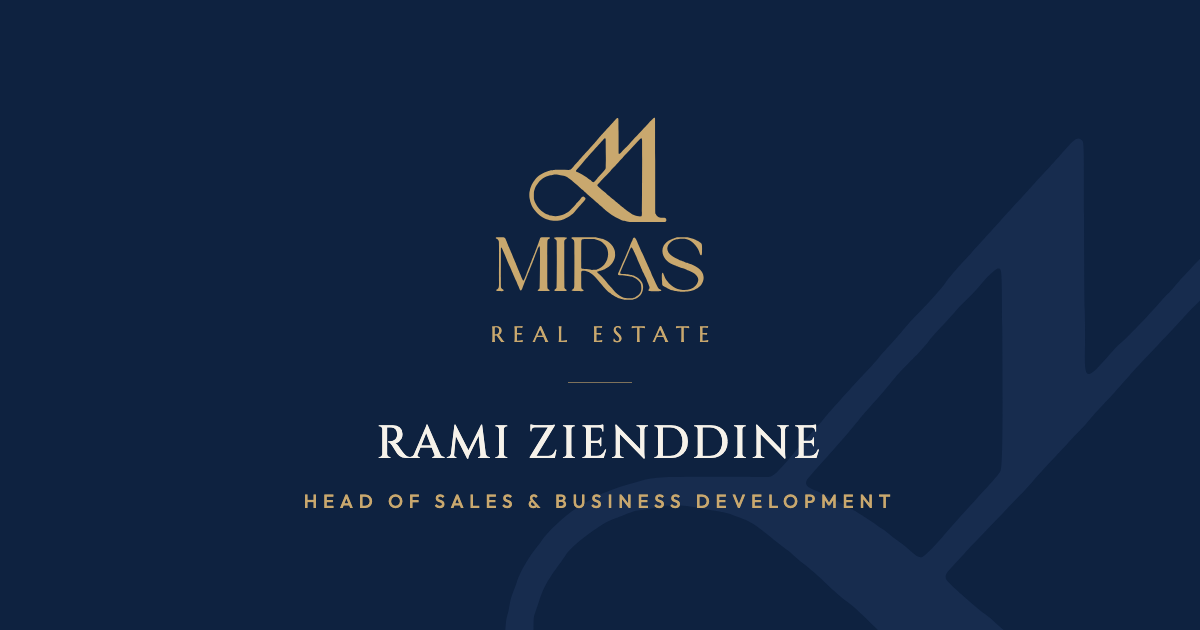
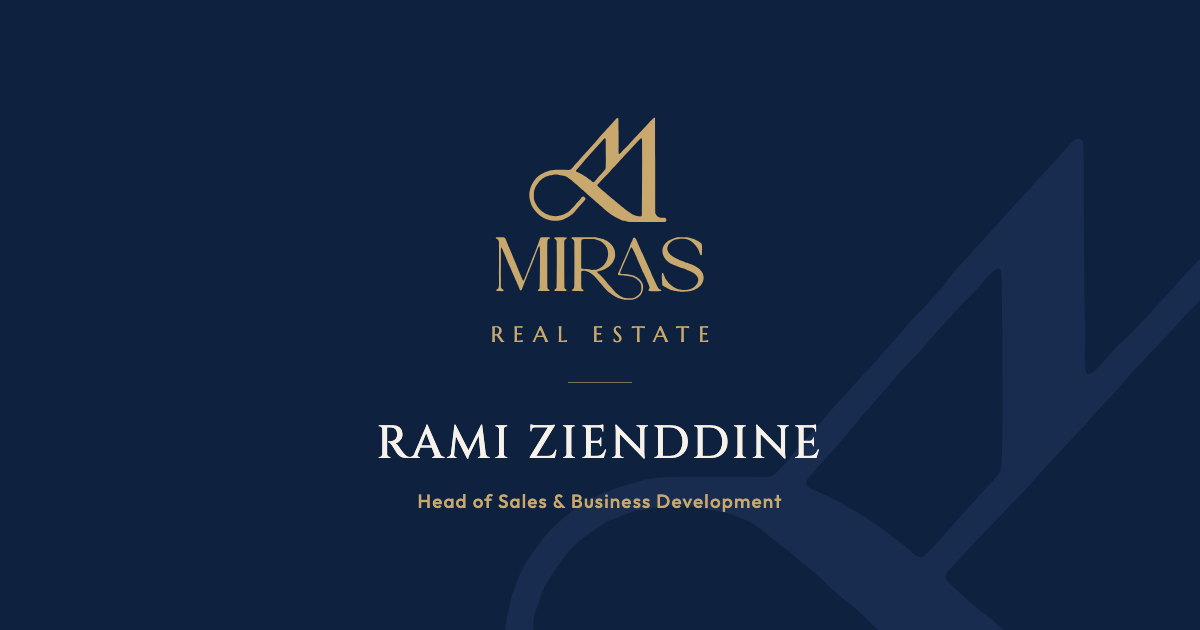
Move MIRAS cards to mirasrealestate.github.io; GROUP tagline, aligned header

Changed region(s): [[0.2467, 0.7841, 0.74, 0.8143]]

diff --git a/saeed/index.html b/saeed/index.html
@@ -9,10 +9,10 @@
 <meta property="og:type" content="profile">
 <meta property="og:title" content="Saeed Taheri · CEO, MIRAS Group">
 <meta property="og:description" content="Call, WhatsApp, email or save the contact.">
-<meta property="og:image" content="https://sawafilms20-debug.github.io/miras/saeed/og-image.png">
+<meta property="og:image" content="https://mirasrealestate.github.io/saeed/og-image.png">
 <meta property="og:image:width" content="1200">
 <meta property="og:image:height" content="630">
-<meta property="og:url" content="https://sawafilms20-debug.github.io/miras/saeed/">
+<meta property="og:url" content="https://mirasrealestate.github.io/saeed/">
 <meta name="twitter:card" content="summary_large_image">
 <link rel="icon" type="image/svg+xml" href="../assets/favicon.svg">
 <link rel="apple-touch-icon" href="../assets/apple-touch-icon.png">
@@ -59,7 +59,7 @@ button{font:inherit;color:inherit;background:none;border:0;cursor:pointer}
 .identity{display:flex;flex-direction:column;align-items:center;text-align:center}
 .name{font-family:'Cinzel',serif;font-weight:500;font-size:clamp(21px,6.4vw,26px);letter-spacing:.07em;line-height:1.15;color:var(--navy)}
 .name-ar{margin-top:8px;font-family:var(--ar);font-weight:600;font-size:clamp(18px,5.4vw,21px);line-height:1.3;color:var(--navy)}
-.role{margin-top:16px;font-family:var(--sans);font-size:11px;font-weight:500;line-height:1.75;color:var(--gold-text);text-transform:uppercase;text-wrap:balance;max-width:300px}
+.role{margin-top:16px;font-family:var(--sans);font-size:11px;font-weight:500;line-height:1.75;color:var(--gold-text);text-wrap:balance;max-width:340px}
 .role-ar{margin-top:5px;font-family:var(--ar);font-size:13px;font-weight:500;line-height:1.5;color:var(--gold-text)}
 
 .rule{position:relative;height:1px;margin:24px 4px 22px;background:linear-gradient(90deg,transparent,rgba(168,132,74,.5) 16%,rgba(168,132,74,.5) 84%,transparent)}
@@ -143,7 +143,7 @@ html[lang=ar] .foot .place{font-size:12px;letter-spacing:0}
         </defs>
         <path fill="url(#sheen)" fill-rule="evenodd" d="M1690.0 2393.9C1683.6 2393.4 1676.5 2391.6 1661.5 2386.7C1650.5 2383.2 1639.0 2379.7 1636.0 2379.0C1610.7 2373.2 1550.6 2341.5 1523.0 2319.5C1518.3 2315.8 1508.7 2308.8 1501.5 2304.0C1484.5 2292.4 1458.2 2266.2 1430.4 2233.0C1425.6 2227.2 1416.7 2217.1 1410.6 2210.5C1395.9 2194.6 1387.7 2185.3 1373.9 2168.9C1348.5 2138.7 1325.8 2112.8 1312.1 2098.5C1304.0 2090.1 1293.5 2079.0 1288.5 2073.8C1273.8 2058.4 1236.0 2034.0 1218.0 2028.4C1213.3 2027.0 1204.7 2024.3 1198.9 2022.4C1174.5 2014.7 1143.4 2014.6 1135.3 2022.2C1129.5 2027.7 1129.6 2025.5 1129.8 2131.5C1130.0 2251.8 1129.1 2245.9 1149.4 2259.5C1164.3 2269.4 1165.7 2274.9 1154.4 2279.6C1146.1 2283.1 1110.5 2283.8 1094.0 2280.9C1091.0 2280.3 1071.6 2279.6 1051.0 2279.1C1020.6 2278.5 1012.8 2278.1 1010.0 2276.9C1000.9 2272.8 1002.1 2268.8 1014.5 2261.3C1025.8 2254.5 1028.4 2252.0 1032.0 2244.5C1037.9 2232.4 1038.2 2230.3 1039.2 2182.0C1040.9 2100.0 1040.8 1685.7 1039.1 1649.5C1037.6 1617.9 1034.2 1611.1 1014.4 1599.4C992.2 1586.4 996.8 1577.7 1026.7 1575.9C1048.5 1574.6 1315.1 1575.6 1322.5 1577.0C1325.8 1577.6 1334.6 1579.6 1342.0 1581.5C1349.4 1583.4 1362.5 1586.1 1371.0 1587.5C1393.1 1591.3 1400.8 1593.4 1413.9 1599.4C1420.3 1602.3 1430.0 1606.1 1435.5 1607.8C1451.0 1612.7 1488.2 1635.9 1504.6 1651.1C1537.5 1681.5 1557.7 1712.1 1568.6 1748.0C1574.1 1765.8 1576.3 1813.2 1572.6 1833.1C1567.4 1861.3 1552.1 1895.5 1535.6 1915.5C1527.2 1925.7 1504.0 1951.7 1498.4 1957.2C1487.1 1968.0 1452.1 1989.7 1438.4 1994.4C1433.0 1996.2 1424.0 2000.0 1418.5 2002.7C1405.5 2009.3 1402.5 2010.2 1358.5 2020.5C1332.3 2026.6 1331.7 2031.1 1354.9 2050.3C1371.4 2064.0 1413.1 2105.1 1424.1 2118.5C1428.2 2123.4 1433.9 2130.2 1436.9 2133.5C1439.8 2136.8 1447.5 2146.0 1453.8 2154.0C1482.7 2190.2 1501.5 2212.5 1513.5 2225.0C1535.3 2247.6 1541.2 2254.1 1549.2 2264.5C1577.9 2302.2 1627.8 2342.8 1664.6 2358.5C1696.8 2372.3 1715.8 2375.5 1764.0 2375.5C1813.3 2375.4 1811.8 2375.7 1842.0 2359.1C1905.3 2324.3 1924.1 2287.5 1915.5 2215.4C1912.2 2188.2 1911.5 2185.9 1898.3 2166.0C1881.6 2140.7 1857.3 2121.6 1818.5 2103.2C1799.3 2094.0 1798.6 2093.8 1775.4 2091.0C1766.1 2089.9 1749.8 2086.9 1739.0 2084.5C1705.4 2076.9 1679.2 2074.0 1643.8 2074.0C1608.9 2074.0 1605.0 2068.7 1618.1 2039.0C1620.9 2032.7 1625.8 2021.4 1629.0 2013.9C1632.2 2006.5 1636.6 1996.8 1638.8 1992.4C1640.9 1988.1 1645.5 1977.5 1649.0 1969.0C1652.4 1960.5 1656.7 1950.5 1658.6 1946.8C1663.1 1937.9 1679.0 1901.4 1682.5 1892.0C1684.0 1887.9 1688.2 1878.4 1691.7 1871.0C1695.2 1863.6 1701.3 1849.6 1705.1 1840.0C1709.0 1830.4 1715.3 1815.8 1719.2 1807.5C1734.9 1773.9 1754.6 1728.8 1758.6 1717.0C1768.4 1688.2 1775.0 1670.1 1777.5 1664.5C1778.9 1661.2 1782.1 1653.7 1784.5 1647.8C1786.9 1641.9 1791.2 1633.1 1793.9 1628.3C1796.7 1623.4 1800.2 1615.4 1801.8 1610.5C1815.9 1567.0 1833.5 1568.8 1854.5 1615.8C1857.4 1622.3 1861.3 1630.7 1863.2 1634.5C1865.1 1638.3 1867.5 1644.0 1868.5 1647.0C1869.4 1650.0 1873.9 1660.4 1878.5 1670.0C1893.1 1700.6 1902.5 1722.1 1914.4 1751.6C1917.4 1758.8 1922.5 1770.1 1925.9 1776.6C1935.6 1795.6 1946.8 1819.5 1952.0 1832.5C1959.9 1852.3 1971.1 1877.1 1983.5 1902.5C1989.9 1915.7 1996.7 1930.4 1998.5 1935.1C2000.3 1939.8 2003.6 1947.2 2005.8 1951.6C2008.0 1955.9 2011.7 1964.0 2014.0 1969.5C2016.3 1975.0 2020.0 1983.0 2022.1 1987.2C2024.2 1991.5 2027.8 1999.5 2030.0 2005.0C2032.2 2010.6 2036.3 2020.1 2039.1 2026.2C2041.8 2032.2 2045.3 2040.4 2046.7 2044.3C2052.0 2059.3 2068.6 2097.1 2080.1 2120.8C2086.7 2134.4 2093.1 2147.8 2094.1 2150.5C2096.2 2155.7 2102.1 2168.4 2119.7 2205.4C2137.3 2242.7 2144.2 2250.6 2167.4 2260.6C2182.4 2267.0 2184.3 2276.2 2171.4 2279.9C2158.5 2283.6 2031.9 2283.3 2020.3 2279.6C2008.3 2275.8 2007.1 2268.3 2016.6 2256.9C2027.2 2244.3 2027.7 2233.6 2018.7 2212.0C2016.6 2206.8 2012.7 2196.4 2010.1 2189.0C2007.4 2181.6 2004.3 2173.6 2003.1 2171.2C2001.9 2168.9 1996.9 2157.2 1992.1 2145.2C1978.9 2113.0 1976.6 2108.0 1970.8 2097.8C1967.8 2092.7 1963.3 2083.8 1960.8 2078.0C1958.3 2072.2 1950.8 2056.4 1944.2 2042.7C1937.6 2029.1 1931.0 2014.5 1929.5 2010.2C1928.0 2006.0 1924.6 1998.2 1922.0 1993.0C1919.4 1987.8 1915.8 1979.5 1914.0 1974.5C1912.2 1969.5 1908.5 1961.1 1905.9 1955.8C1903.2 1950.4 1899.2 1941.5 1897.0 1936.0C1894.8 1930.4 1891.6 1923.2 1890.0 1919.9C1888.3 1916.6 1885.0 1908.9 1882.6 1902.7C1880.2 1896.5 1876.2 1887.4 1873.8 1882.5C1871.3 1877.5 1867.6 1869.0 1865.5 1863.5C1860.8 1850.6 1851.0 1828.0 1845.2 1816.5C1842.7 1811.5 1838.5 1802.0 1835.9 1795.2C1833.2 1788.5 1828.6 1778.1 1825.6 1772.2C1822.7 1766.3 1818.7 1757.7 1816.7 1753.0C1805.9 1727.0 1795.1 1709.0 1790.4 1709.0C1784.4 1709.0 1777.7 1715.7 1774.0 1725.6C1772.9 1728.6 1769.5 1736.5 1766.4 1743.3C1763.3 1750.0 1756.5 1766.3 1751.3 1779.5C1746.1 1792.7 1740.2 1807.5 1738.3 1812.5C1736.3 1817.5 1730.1 1831.2 1724.4 1843.1C1718.7 1855.0 1712.0 1870.1 1709.4 1876.6C1706.8 1883.1 1701.6 1895.2 1697.7 1903.5C1693.9 1911.8 1687.4 1926.8 1683.3 1937.0C1679.2 1947.2 1672.6 1962.5 1668.5 1971.0C1661.8 1985.1 1657.7 1994.6 1645.8 2024.5C1634.5 2052.6 1637.4 2055.1 1682.5 2056.1C1716.8 2056.8 1729.0 2058.2 1754.0 2064.5C1761.4 2066.3 1773.6 2068.6 1781.0 2069.5C1797.8 2071.6 1803.7 2073.0 1815.1 2078.1C1820.1 2080.3 1828.3 2083.6 1833.3 2085.6C1870.8 2100.0 1898.6 2123.2 1920.9 2159.0C1933.6 2179.2 1934.9 2182.9 1939.1 2207.5C1944.2 2237.7 1938.1 2280.7 1925.7 2302.8C1922.7 2308.1 1918.8 2315.2 1917.0 2318.5C1903.2 2343.8 1869.1 2372.4 1841.5 2381.9C1833.8 2384.6 1823.7 2388.1 1819.0 2389.8C1813.7 2391.7 1806.7 2393.3 1800.5 2394.0C1789.6 2395.2 1704.7 2395.1 1690.0 2393.9ZM2429.5 2289.0C2426.2 2288.6 2417.0 2287.9 2409.0 2287.6C2368.8 2285.8 2363.4 2284.8 2324.5 2271.8C2294.3 2261.7 2274.9 2253.2 2258.6 2243.0C2250.9 2238.3 2223.3 2222.8 2212.0 2217.0C2192.3 2206.8 2190.0 2202.0 2190.0 2171.4C2190.0 2154.9 2189.6 2147.1 2188.3 2140.0C2185.6 2125.4 2185.7 2057.7 2188.3 2050.7C2193.5 2037.4 2202.4 2041.2 2209.5 2059.5C2225.8 2101.9 2233.0 2117.7 2241.6 2129.5C2244.8 2133.9 2250.4 2141.9 2254.1 2147.2C2284.0 2190.3 2333.0 2231.7 2369.8 2245.3C2410.3 2260.3 2414.2 2261.3 2440.0 2264.5C2520.5 2274.3 2581.9 2256.8 2628.5 2210.6C2644.1 2195.2 2643.2 2196.6 2656.4 2167.3C2682.9 2108.4 2638.0 2051.0 2535.1 2012.0C2528.1 2009.4 2519.2 2005.6 2515.2 2003.6C2504.9 1998.4 2496.3 1995.1 2462.5 1983.5C2446.0 1977.8 2422.8 1969.8 2410.9 1965.7C2399.1 1961.6 2386.0 1956.8 2381.9 1955.0C2377.8 1953.2 2368.4 1949.6 2361.0 1947.0C2226.1 1900.2 2160.4 1787.3 2210.3 1688.4C2226.0 1657.3 2264.4 1623.1 2299.4 1609.0C2304.4 1607.0 2313.4 1602.8 2319.5 1599.7C2327.4 1595.6 2333.9 1593.2 2342.5 1591.1C2349.1 1589.4 2359.3 1586.3 2365.2 1584.0C2386.4 1576.0 2380.8 1576.5 2454.5 1576.5C2528.6 1576.5 2521.5 1575.8 2557.5 1586.0C2565.2 1588.2 2576.0 1591.1 2581.5 1592.4C2616.6 1600.7 2675.6 1630.7 2699.7 1652.4C2713.0 1664.4 2715.1 1682.4 2713.0 1765.5C2712.0 1802.0 2710.9 1807.9 2703.9 1811.6C2695.2 1816.0 2688.4 1807.6 2682.1 1784.5C2678.3 1770.3 2665.6 1740.3 2659.2 1730.3C2656.4 1726.0 2651.3 1717.7 2647.7 1711.8C2623.3 1671.6 2576.3 1627.7 2542.3 1613.2C2534.0 1609.6 2496.2 1598.3 2488.5 1597.1C2452.2 1591.3 2403.5 1593.9 2379.4 1603.0C2373.5 1605.2 2363.7 1608.4 2357.7 1610.0C2333.6 1616.7 2312.9 1630.1 2289.0 1654.7C2271.4 1672.6 2264.1 1687.3 2259.5 1713.7C2251.2 1761.3 2287.3 1808.0 2363.9 1848.7C2394.8 1865.1 2420.1 1877.0 2435.0 1882.2C2450.6 1887.6 2463.5 1892.2 2491.0 1902.4C2500.7 1905.9 2512.7 1910.0 2517.8 1911.4C2522.8 1912.9 2532.2 1916.0 2538.7 1918.4C2545.2 1920.8 2554.9 1924.1 2560.2 1925.8C2565.5 1927.5 2574.9 1931.5 2581.2 1934.6C2587.4 1937.7 2596.0 1941.7 2600.3 1943.5C2639.8 1960.2 2690.0 1997.5 2708.1 2023.7C2744.6 2076.5 2742.7 2144.8 2703.4 2197.3C2671.7 2239.6 2599.7 2277.7 2542.4 2282.5C2533.0 2283.3 2518.6 2285.1 2510.4 2286.6C2494.5 2289.5 2443.8 2291.0 2429.5 2289.0ZM71.9 2281.6C71.6 2281.3 60.1 2280.6 46.4 2280.1C19.3 2279.2 15.0 2278.3 12.8 2273.5C11.0 2269.5 13.2 2266.9 23.0 2261.1C50.5 2245.1 53.7 2233.3 52.1 2152.0C51.6 2124.4 51.7 2028.5 52.3 1916.0C53.4 1709.6 52.7 1640.8 49.6 1629.5C45.0 1613.2 37.2 1603.7 22.3 1596.3C6.3 1588.4 5.5 1580.1 20.5 1577.0C27.7 1575.5 99.5 1574.8 109.5 1576.1C126.8 1578.4 134.6 1586.0 141.5 1607.0C143.0 1611.7 146.5 1620.5 149.3 1626.5C152.0 1632.5 156.0 1642.3 158.1 1648.3C160.2 1654.2 164.0 1663.4 166.4 1668.8C168.9 1674.1 172.2 1682.2 173.9 1686.6C175.5 1691.1 179.1 1699.2 181.8 1704.6C184.5 1710.1 188.2 1718.5 190.0 1723.5C191.8 1728.5 195.3 1736.5 197.7 1741.4C200.1 1746.3 203.5 1754.1 205.1 1758.9C206.8 1763.6 210.6 1772.7 213.7 1779.0C216.7 1785.3 220.7 1794.9 222.6 1800.3C224.5 1805.7 227.9 1814.0 230.1 1818.8C232.4 1823.6 236.3 1833.3 238.9 1840.5C241.6 1847.7 245.4 1856.9 247.5 1861.0C249.5 1865.1 252.7 1872.3 254.6 1877.0C256.4 1881.7 260.1 1890.2 262.8 1896.0C265.5 1901.8 269.0 1910.3 270.5 1915.0C272.0 1919.7 275.7 1928.9 278.6 1935.5C283.9 1947.7 292.0 1967.4 301.5 1992.0C304.4 1999.4 308.9 2010.0 311.5 2015.5C314.1 2021.0 318.2 2030.5 320.5 2036.5C322.9 2042.5 326.3 2050.7 328.0 2054.5C329.8 2058.3 332.9 2066.0 335.0 2071.5C337.0 2077.0 341.0 2086.7 343.7 2093.0C346.5 2099.3 351.8 2112.1 355.6 2121.4C370.2 2157.2 375.6 2153.7 396.6 2095.0C398.1 2090.9 401.6 2082.4 404.5 2076.0C407.4 2069.7 411.2 2059.8 413.0 2054.0C414.8 2048.2 418.4 2038.7 421.0 2032.9C423.7 2027.1 427.1 2018.2 428.5 2013.2C430.0 2008.1 433.3 1999.4 435.9 1993.7C438.6 1988.1 442.1 1979.2 443.8 1974.0C445.4 1968.8 448.9 1960.1 451.4 1954.7C453.9 1949.3 457.2 1941.0 458.6 1936.2C460.1 1931.4 463.9 1921.9 467.1 1915.0C470.4 1908.1 474.6 1896.9 476.5 1890.2C478.4 1883.5 481.5 1874.9 483.4 1871.1C485.4 1867.3 488.7 1859.1 490.9 1852.8C493.0 1846.5 496.6 1837.7 498.9 1833.2C501.1 1828.7 505.0 1819.3 507.4 1812.3C509.8 1805.3 514.2 1794.3 517.2 1788.0C520.2 1781.7 524.4 1771.3 526.5 1765.0C528.5 1758.7 532.2 1748.9 534.6 1743.3C537.0 1737.7 540.5 1729.0 542.4 1723.8C544.2 1718.7 547.6 1710.2 549.8 1705.0C552.0 1699.8 554.8 1691.7 556.0 1687.0C557.2 1682.4 560.5 1673.4 563.5 1667.0C566.4 1660.7 570.0 1651.2 571.5 1646.0C572.9 1640.8 576.1 1631.5 578.4 1625.5C580.8 1619.5 583.9 1609.9 585.5 1604.3C590.6 1585.4 596.8 1579.2 612.5 1577.1C623.7 1575.6 705.7 1575.3 710.6 1576.8C724.2 1580.8 723.5 1589.4 709.0 1597.1C689.7 1607.4 686.9 1613.4 685.8 1646.5C684.8 1678.9 684.7 2093.7 685.7 2175.0C686.7 2250.8 685.9 2247.5 705.6 2260.5C720.5 2270.3 719.2 2277.7 702.1 2281.0C692.6 2282.8 586.3 2281.1 572.6 2279.0C557.1 2276.6 554.2 2269.6 565.7 2262.4C576.3 2255.8 582.2 2248.8 585.3 2239.5C588.7 2229.2 591.1 1730.7 587.9 1712.3C584.2 1691.5 579.9 1689.9 570.9 1706.0C561.4 1723.1 559.1 1727.7 557.6 1732.5C552.9 1748.2 551.4 1752.4 547.1 1761.9C544.4 1767.7 541.0 1776.3 539.5 1781.0C537.9 1785.6 534.7 1793.8 532.4 1799.2C530.0 1804.5 526.9 1813.1 525.5 1818.2C522.3 1829.7 520.3 1835.1 515.2 1846.1C513.0 1850.8 509.6 1859.8 507.5 1866.1C505.5 1872.4 501.6 1882.2 499.0 1888.0C496.4 1893.8 493.2 1901.9 492.0 1906.0C490.7 1910.1 487.2 1919.1 484.0 1926.0C480.8 1932.9 477.3 1941.9 476.1 1946.0C474.8 1950.1 471.8 1958.0 469.3 1963.4C466.9 1968.8 463.3 1977.6 461.5 1982.9C459.6 1988.2 455.7 1998.2 452.7 2005.0C449.7 2011.9 445.7 2021.8 443.7 2027.0C441.8 2032.2 438.1 2040.7 435.6 2045.9C433.1 2051.1 429.4 2060.6 427.4 2066.9C425.4 2073.3 422.4 2081.2 420.8 2084.5C419.1 2087.7 415.8 2096.5 413.4 2103.9C410.8 2111.8 407.0 2120.9 404.2 2125.9C399.2 2134.6 389.6 2158.6 379.4 2187.5C373.0 2205.9 355.3 2251.1 350.6 2261.5C342.2 2279.8 331.7 2277.7 322.3 2255.9C320.0 2250.7 313.2 2234.1 307.0 2219.0C300.8 2203.9 293.5 2186.6 290.8 2180.5C288.0 2174.4 284.0 2165.3 281.8 2160.1C279.6 2154.9 276.3 2147.5 274.3 2143.7C272.4 2139.8 268.2 2130.6 265.0 2123.1C258.1 2106.8 245.3 2078.5 241.7 2071.4C240.3 2068.6 237.3 2060.9 235.0 2054.4C232.8 2047.9 228.9 2038.7 226.4 2034.0C223.8 2029.3 219.8 2020.5 217.5 2014.5C215.1 2008.5 210.9 1998.8 208.2 1993.0C205.5 1987.2 202.5 1980.0 201.5 1977.0C200.5 1974.0 197.2 1966.5 194.2 1960.5C184.0 1940.1 168.0 1902.3 155.5 1869.5C152.6 1861.8 147.8 1850.3 144.7 1844.0C141.7 1837.7 134.4 1820.8 128.5 1806.6C122.6 1792.3 116.0 1776.8 113.8 1772.1C111.6 1767.4 107.8 1758.3 105.3 1752.0C96.5 1729.3 85.3 1710.2 81.7 1711.6C77.7 1713.1 77.5 1716.4 77.4 1773.5C76.3 2267.6 76.0 2229.2 81.6 2240.7C84.9 2247.6 93.6 2255.3 104.8 2261.3C119.0 2269.0 119.2 2274.1 105.4 2278.9C98.6 2281.2 73.5 2283.3 71.9 2281.6ZM796.5 2281.3C795.4 2281.1 792.1 2280.4 789.2 2279.9C774.3 2277.0 774.1 2268.1 788.6 2258.2C797.3 2252.4 803.9 2245.4 806.9 2239.0C810.5 2231.5 811.1 1631.2 807.6 1621.0C805.2 1614.2 799.0 1607.8 786.3 1599.2C772.1 1589.4 770.7 1583.4 781.5 1578.0C790.6 1573.4 927.3 1574.2 937.0 1578.8C944.9 1582.6 944.4 1589.1 935.7 1594.5C906.1 1612.8 907.7 1607.4 907.7 1693.0C907.8 1972.2 909.6 2236.6 911.4 2241.2C914.1 2248.3 920.1 2254.4 930.5 2260.5C939.9 2266.0 941.0 2267.2 941.0 2271.5C941.0 2279.9 932.4 2281.0 879.5 2279.6C855.1 2278.9 848.7 2279.0 839.0 2280.4C828.6 2281.9 801.7 2282.5 796.5 2281.3ZM1313.0 2003.0C1323.4 2001.8 1330.1 1999.6 1359.5 1987.4C1382.1 1978.1 1414.8 1954.3 1430.2 1936.1C1484.4 1871.8 1497.4 1783.0 1463.3 1710.0C1442.4 1665.2 1388.7 1620.8 1342.9 1610.4C1337.1 1609.1 1327.4 1606.5 1321.4 1604.6C1302.2 1598.6 1300.2 1598.5 1250.0 1598.8C1149.1 1599.5 1140.4 1600.6 1133.5 1614.5C1130.5 1620.5 1130.5 1620.5 1130.0 1785.2C1129.4 1969.7 1129.5 1977.6 1132.6 1983.5C1136.7 1991.3 1137.1 1991.4 1175.0 1992.1C1206.8 1992.7 1245.0 1997.7 1269.0 2004.5C1271.5 2005.2 1303.9 2004.1 1313.0 2003.0ZM1781.9 1376.9C1764.1 1375.2 1726.6 1369.1 1718.0 1366.5C1713.3 1365.1 1702.8 1362.4 1694.5 1360.4C1669.8 1354.6 1668.3 1354.2 1647.0 1345.3C1607.2 1328.8 1595.3 1322.7 1553.5 1297.2C1525.2 1279.9 1490.0 1254.8 1469.0 1237.0C1466.0 1234.4 1457.0 1227.2 1449.0 1221.0C1441.0 1214.8 1424.6 1200.9 1412.5 1190.1C1400.4 1179.3 1387.1 1167.6 1383.0 1164.0C1378.9 1160.4 1368.7 1151.1 1360.3 1143.3C1352.0 1135.5 1340.3 1125.2 1334.3 1120.5C1328.4 1115.7 1316.5 1105.4 1308.0 1097.5C1299.5 1089.7 1286.9 1078.6 1280.0 1072.9C1273.1 1067.3 1260.3 1055.6 1251.5 1047.0C1241.2 1036.9 1230.5 1027.6 1221.5 1021.0C1211.4 1013.6 1201.6 1004.9 1186.5 990.0C1159.8 963.9 1154.8 959.3 1141.4 949.0C1126.9 937.9 1119.2 931.1 1096.5 909.9C1086.0 900.2 1071.4 887.1 1064.0 881.0C1056.6 874.9 1045.4 865.5 1039.2 860.2C1033.0 854.9 1024.2 847.7 1019.7 844.2C1015.2 840.7 1001.4 829.8 989.0 819.9C951.1 789.7 944.1 785.3 921.0 777.0C914.7 774.7 906.4 771.7 902.7 770.4C896.5 768.1 872.7 763.7 827.6 756.4C798.0 751.7 783.8 752.1 752.0 758.5C742.9 760.3 732.4 762.1 728.5 762.5C716.8 763.6 708.1 766.0 694.0 771.7C686.6 774.8 676.7 778.6 672.0 780.1C652.8 786.7 606.0 819.0 585.8 839.7C582.2 843.4 574.1 853.7 567.8 862.5C532.6 911.8 530.8 915.2 517.0 957.5C510.8 976.5 510.8 976.5 509.9 997.5C508.9 1021.3 509.7 1067.6 511.2 1076.4C512.3 1083.4 524.8 1118.7 529.4 1128.0C558.3 1186.8 588.2 1220.5 642.5 1255.5C657.1 1264.9 660.2 1266.6 669.6 1270.0C674.5 1271.8 683.8 1275.7 690.3 1278.7C696.9 1281.7 706.1 1285.0 710.8 1286.2C715.6 1287.3 726.0 1290.0 734.0 1292.1C768.5 1301.6 810.0 1302.7 839.5 1294.9C845.5 1293.3 857.9 1290.2 866.9 1287.9C930.1 1272.2 983.4 1231.4 1062.0 1138.7C1067.2 1132.5 1079.9 1118.9 1090.2 1108.3C1102.3 1095.9 1112.5 1084.3 1119.1 1075.5C1145.8 1039.8 1155.9 1035.6 1174.3 1052.9C1191.5 1069.1 1191.0 1075.4 1171.1 1096.9C1164.5 1104.1 1155.1 1115.2 1150.3 1121.7C1145.5 1128.2 1134.3 1140.9 1125.4 1150.0C1103.5 1172.5 1062.7 1218.5 1042.2 1243.6C1035.3 1252.2 1021.8 1265.2 1006.0 1278.7C976.2 1304.2 933.1 1329.7 903.5 1339.5C896.4 1341.8 886.6 1345.4 881.8 1347.4C841.9 1364.0 745.0 1364.0 699.2 1347.4C693.8 1345.5 683.4 1342.1 676.0 1339.9C655.1 1333.6 625.2 1317.4 591.5 1293.8C544.3 1260.9 488.7 1191.0 475.3 1148.0C473.9 1143.3 470.7 1134.5 468.4 1128.5C462.9 1114.3 459.5 1101.1 458.0 1088.5C457.4 1083.0 455.8 1074.7 454.5 1070.0C448.7 1049.4 448.0 995.9 453.4 977.0C454.9 971.8 457.0 962.3 458.1 956.0C460.0 945.0 462.3 937.7 474.3 904.2C482.0 882.7 497.2 856.5 514.2 835.2C517.7 830.8 523.8 822.7 527.9 817.1C561.1 771.6 628.5 729.0 700.0 708.3C741.1 696.4 738.7 696.9 777.0 693.9C790.5 692.8 871.6 692.6 968.5 693.4C991.2 693.6 996.5 689.5 1034.3 643.2C1040.0 636.2 1048.7 626.1 1053.6 620.6C1079.0 592.5 1086.1 584.4 1095.5 573.0C1110.6 554.5 1139.4 522.7 1174.8 485.3C1183.8 475.8 1195.3 463.0 1200.3 456.8C1205.3 450.6 1215.6 439.0 1223.3 431.0C1231.0 423.0 1243.4 408.9 1250.8 399.5C1259.6 388.4 1272.2 374.5 1287.0 359.5C1310.7 335.5 1322.5 322.1 1335.2 305.4C1344.9 292.6 1358.6 276.3 1370.9 263.0C1376.3 257.2 1384.4 248.2 1389.0 243.0C1393.5 237.8 1405.4 224.7 1415.4 214.0C1440.8 186.7 1442.3 185.0 1454.5 171.0C1460.5 164.1 1473.8 149.5 1484.0 138.5C1494.2 127.5 1507.9 112.4 1514.5 105.0C1521.1 97.6 1533.5 84.1 1542.1 75.0C1550.7 65.9 1561.3 54.4 1565.6 49.4C1570.0 44.4 1577.6 35.6 1582.6 29.8C1596.9 13.5 1604.8 9.6 1611.8 15.5C1619.0 21.5 1618.4 8.1 1619.3 188.5C1620.6 478.5 1620.6 476.5 1623.3 480.1C1629.4 488.1 1637.9 482.0 1666.7 449.0C1671.7 443.2 1688.5 426.2 1704.0 411.1C1719.4 396.1 1736.2 379.2 1741.2 373.6C1746.2 368.1 1755.8 357.4 1762.4 350.0C1769.1 342.6 1779.2 331.6 1785.0 325.5C1790.8 319.5 1798.0 311.6 1801.0 308.0C1811.8 295.2 1822.8 283.2 1842.5 263.0C1860.2 244.8 1903.3 198.6 1933.0 166.0C1938.7 159.7 1953.8 143.7 1966.6 130.5C1979.3 117.3 1997.1 98.4 2006.2 88.5C2038.7 53.0 2080.0 12.2 2084.8 10.9C2090.1 9.4 2093.5 10.4 2096.4 14.3C2098.5 17.1 2098.5 17.1 2099.2 564.3C2100.1 1314.2 2099.4 1252.6 2107.6 1272.1C2115.2 1290.2 2120.3 1296.3 2135.5 1305.8C2154.6 1317.6 2159.7 1318.8 2198.0 1319.8C2237.6 1320.9 2243.7 1324.6 2245.6 1348.5C2247.6 1371.7 2233.9 1379.3 2194.3 1377.1C2175.4 1376.0 1928.4 1376.2 1836.0 1377.3C1811.5 1377.6 1787.2 1377.4 1781.9 1376.9ZM1912.5 1301.9C1923.9 1299.0 1924.7 1296.0 1925.4 1251.5C1927.9 1107.3 1929.2 339.1 1927.1 305.5C1924.7 267.2 1920.3 267.5 1882.4 308.2C1872.0 319.4 1854.1 338.2 1842.5 350.0C1831.0 361.8 1817.2 376.4 1811.9 382.5C1806.6 388.6 1788.9 407.5 1772.4 424.5C1742.1 456.0 1718.9 481.0 1706.4 495.5C1702.7 499.9 1696.6 506.7 1693.0 510.5C1689.4 514.4 1682.6 522.1 1677.8 527.6C1673.0 533.2 1662.3 544.8 1654.0 553.5C1645.7 562.1 1634.6 574.4 1629.3 580.8C1623.9 587.2 1613.5 598.8 1606.0 606.5C1598.5 614.2 1587.9 625.5 1582.5 631.5C1577.1 637.5 1566.5 648.8 1559.0 656.5C1542.7 673.3 1530.9 686.2 1513.0 707.0C1500.2 721.8 1477.8 745.5 1437.0 787.5C1402.8 822.6 1390.5 835.4 1381.5 845.4C1376.5 850.9 1365.9 862.5 1357.8 871.2C1333.7 897.1 1333.6 896.4 1372.9 931.5C1380.2 938.1 1389.7 946.6 1393.9 950.3C1398.1 954.1 1407.3 961.6 1414.5 966.9C1421.7 972.3 1432.9 981.5 1439.5 987.4C1446.1 993.3 1457.1 1002.7 1464.0 1008.3C1470.9 1013.8 1485.0 1025.9 1495.5 1035.0C1506.0 1044.1 1521.5 1057.2 1530.0 1064.0C1538.5 1070.8 1548.2 1078.8 1551.5 1081.8C1554.7 1084.8 1564.9 1093.2 1574.0 1100.5C1583.1 1107.7 1594.5 1117.4 1599.5 1122.0C1604.5 1126.5 1613.9 1134.6 1620.5 1139.8C1627.1 1145.1 1640.4 1156.2 1650.0 1164.5C1670.9 1182.5 1679.2 1189.2 1692.5 1199.0C1698.0 1203.0 1706.1 1209.3 1710.5 1213.0C1739.1 1236.8 1793.5 1273.1 1813.1 1281.5C1845.9 1295.6 1896.4 1305.9 1912.5 1301.9ZM1299.3 849.2C1304.8 844.9 1321.7 826.7 1337.0 808.5C1347.6 796.0 1364.5 777.0 1391.6 747.5C1455.8 677.3 1450.7 686.5 1450.8 641.0C1450.8 627.5 1451.4 605.2 1452.0 591.5C1452.9 572.5 1452.9 550.1 1452.1 498.0C1451.5 460.3 1451.0 398.4 1451.0 360.5C1451.0 313.8 1450.6 290.2 1449.9 287.5C1445.9 272.8 1436.4 277.4 1412.7 305.5C1407.1 312.1 1393.7 326.5 1382.9 337.5C1372.1 348.5 1360.1 361.2 1356.3 365.6C1352.6 370.1 1341.6 382.0 1332.0 392.1C1322.4 402.2 1310.2 416.1 1305.0 423.0C1298.9 431.0 1286.3 444.9 1270.1 461.5C1256.1 475.8 1239.7 493.6 1233.7 501.0C1222.5 514.7 1205.0 534.9 1184.0 558.5C1177.6 565.6 1169.3 575.3 1165.5 580.0C1143.6 607.1 1118.1 636.6 1093.1 664.0C1060.0 700.1 1057.0 705.1 1063.6 713.0C1066.6 716.5 1069.3 718.0 1085.4 724.9C1114.3 737.3 1170.1 769.2 1199.6 790.3C1204.9 794.0 1212.4 799.2 1216.3 801.9C1220.3 804.6 1226.2 809.1 1229.5 812.0C1232.8 814.8 1240.0 820.2 1245.5 824.0C1251.0 827.8 1260.5 835.4 1266.7 840.9C1283.9 856.3 1288.6 857.4 1299.3 849.2Z"/>
       </svg>
-      <span class="tag" style="font-size:clamp(7.4px,2.25vw,9.5px);letter-spacing:.16em;margin-right:-.16em" aria-hidden="true">GROUP<i class="sep"></i>REAL ESTATE<i class="sep"></i>MARKETING AGENCY<i class="sep"></i>SERVICES</span>
+      <span class="tag" style="font-size:12px;letter-spacing:.6em;margin-right:-.6em" aria-hidden="true">GROUP</span>
     </h1>
   </header>
 

diff --git a/index.html b/index.html
@@ -7,5 +7,5 @@
 svg{width:150px;display:block}nav{display:grid;gap:12px;width:100%;max-width:380px}
 a{display:flex;flex-direction:column;align-items:center;gap:6px;padding:22px 16px;border-radius:20px;background:#F6F2EA;text-decoration:none;text-align:center;transition:transform .2s}
 a:hover{transform:translateY(-2px)}.n{font-family:Cinzel,serif;font-weight:500;font-size:20px;letter-spacing:.07em}
-.a{font-family:'Noto Kufi Arabic',sans-serif;font-weight:600;font-size:17px}.r{margin-top:4px;font-size:10.5px;font-weight:500;letter-spacing:.24em;text-transform:uppercase;color:#87652F}</style>
+.a{font-family:'Noto Kufi Arabic',sans-serif;font-weight:600;font-size:17px}.r{margin-top:4px;font-size:12px;font-weight:500;letter-spacing:.04em;color:#87652F}</style>
 </head><body><svg viewBox="0 0 2752 2400" style="width:150px;display:block"><path fill="#C9A86E" fill-rule="evenodd" d="M1690.0 2393.9C1683.6 2393.4 1676.5 2391.6 1661.5 2386.7C1650.5 2383.2 1639.0 2379.7 1636.0 2379.0C1610.7 2373.2 1550.6 2341.5 1523.0 2319.5C1518.3 2315.8 1508.7 2308.8 1501.5 2304.0C1484.5 2292.4 1458.2 2266.2 1430.4 2233.0C1425.6 2227.2 1416.7 2217.1 1410.6 2210.5C1395.9 2194.6 1387.7 2185.3 1373.9 2168.9C1348.5 2138.7 1325.8 2112.8 1312.1 2098.5C1304.0 2090.1 1293.5 2079.0 1288.5 2073.8C1273.8 2058.4 1236.0 2034.0 1218.0 2028.4C1213.3 2027.0 1204.7 2024.3 1198.9 2022.4C1174.5 2014.7 1143.4 2014.6 1135.3 2022.2C1129.5 2027.7 1129.6 2025.5 1129.8 2131.5C1130.0 2251.8 1129.1 2245.9 1149.4 2259.5C1164.3 2269.4 1165.7 2274.9 1154.4 2279.6C1146.1 2283.1 1110.5 2283.8 1094.0 2280.9C1091.0 2280.3 1071.6 2279.6 1051.0 2279.1C1020.6 2278.5 1012.8 2278.1 1010.0 2276.9C1000.9 2272.8 1002.1 2268.8 1014.5 2261.3C1025.8 2254.5 1028.4 2252.0 1032.0 2244.5C1037.9 2232.4 1038.2 2230.3 1039.2 2182.0C1040.9 2100.0 1040.8 1685.7 1039.1 1649.5C1037.6 1617.9 1034.2 1611.1 1014.4 1599.4C992.2 1586.4 996.8 1577.7 1026.7 1575.9C1048.5 1574.6 1315.1 1575.6 1322.5 1577.0C1325.8 1577.6 1334.6 1579.6 1342.0 1581.5C1349.4 1583.4 1362.5 1586.1 1371.0 1587.5C1393.1 1591.3 1400.8 1593.4 1413.9 1599.4C1420.3 1602.3 1430.0 1606.1 1435.5 1607.8C1451.0 1612.7 1488.2 1635.9 1504.6 1651.1C1537.5 1681.5 1557.7 1712.1 1568.6 1748.0C1574.1 1765.8 1576.3 1813.2 1572.6 1833.1C1567.4 1861.3 1552.1 1895.5 1535.6 1915.5C1527.2 1925.7 1504.0 1951.7 1498.4 1957.2C1487.1 1968.0 1452.1 1989.7 1438.4 1994.4C1433.0 1996.2 1424.0 2000.0 1418.5 2002.7C1405.5 2009.3 1402.5 2010.2 1358.5 2020.5C1332.3 2026.6 1331.7 2031.1 1354.9 2050.3C1371.4 2064.0 1413.1 2105.1 1424.1 2118.5C1428.2 2123.4 1433.9 2130.2 1436.9 2133.5C1439.8 2136.8 1447.5 2146.0 1453.8 2154.0C1482.7 2190.2 1501.5 2212.5 1513.5 2225.0C1535.3 2247.6 1541.2 2254.1 1549.2 2264.5C1577.9 2302.2 1627.8 2342.8 1664.6 2358.5C1696.8 2372.3 1715.8 2375.5 1764.0 2375.5C1813.3 2375.4 1811.8 2375.7 1842.0 2359.1C1905.3 2324.3 1924.1 2287.5 1915.5 2215.4C1912.2 2188.2 1911.5 2185.9 1898.3 2166.0C1881.6 2140.7 1857.3 2121.6 1818.5 2103.2C1799.3 2094.0 1798.6 2093.8 1775.4 2091.0C1766.1 2089.9 1749.8 2086.9 1739.0 2084.5C1705.4 2076.9 1679.2 2074.0 1643.8 2074.0C1608.9 2074.0 1605.0 2068.7 1618.1 2039.0C1620.9 2032.7 1625.8 2021.4 1629.0 2013.9C1632.2 2006.5 1636.6 1996.8 1638.8 1992.4C1640.9 1988.1 1645.5 1977.5 1649.0 1969.0C1652.4 1960.5 1656.7 1950.5 1658.6 1946.8C1663.1 1937.9 1679.0 1901.4 1682.5 1892.0C1684.0 1887.9 1688.2 1878.4 1691.7 1871.0C1695.2 1863.6 1701.3 1849.6 1705.1 1840.0C1709.0 1830.4 1715.3 1815.8 1719.2 1807.5C1734.9 1773.9 1754.6 1728.8 1758.6 1717.0C1768.4 1688.2 1775.0 1670.1 1777.5 1664.5C1778.9 1661.2 1782.1 1653.7 1784.5 1647.8C1786.9 1641.9 1791.2 1633.1 1793.9 1628.3C1796.7 1623.4 1800.2 1615.4 1801.8 1610.5C1815.9 1567.0 1833.5 1568.8 1854.5 1615.8C1857.4 1622.3 1861.3 1630.7 1863.2 1634.5C1865.1 1638.3 1867.5 1644.0 1868.5 1647.0C1869.4 1650.0 1873.9 1660.4 1878.5 1670.0C1893.1 1700.6 1902.5 1722.1 1914.4 1751.6C1917.4 1758.8 1922.5 1770.1 1925.9 1776.6C1935.6 1795.6 1946.8 1819.5 1952.0 1832.5C1959.9 1852.3 1971.1 1877.1 1983.5 1902.5C1989.9 1915.7 1996.7 1930.4 1998.5 1935.1C2000.3 1939.8 2003.6 1947.2 2005.8 1951.6C2008.0 1955.9 2011.7 1964.0 2014.0 1969.5C2016.3 1975.0 2020.0 1983.0 2022.1 1987.2C2024.2 1991.5 2027.8 1999.5 2030.0 2005.0C2032.2 2010.6 2036.3 2020.1 2039.1 2026.2C2041.8 2032.2 2045.3 2040.4 2046.7 2044.3C2052.0 2059.3 2068.6 2097.1 2080.1 2120.8C2086.7 2134.4 2093.1 2147.8 2094.1 2150.5C2096.2 2155.7 2102.1 2168.4 2119.7 2205.4C2137.3 2242.7 2144.2 2250.6 2167.4 2260.6C2182.4 2267.0 2184.3 2276.2 2171.4 2279.9C2158.5 2283.6 2031.9 2283.3 2020.3 2279.6C2008.3 2275.8 2007.1 2268.3 2016.6 2256.9C2027.2 2244.3 2027.7 2233.6 2018.7 2212.0C2016.6 2206.8 2012.7 2196.4 2010.1 2189.0C2007.4 2181.6 2004.3 2173.6 2003.1 2171.2C2001.9 2168.9 1996.9 2157.2 1992.1 2145.2C1978.9 2113.0 1976.6 2108.0 1970.8 2097.8C1967.8 2092.7 1963.3 2083.8 1960.8 2078.0C1958.3 2072.2 1950.8 2056.4 1944.2 2042.7C1937.6 2029.1 1931.0 2014.5 1929.5 2010.2C1928.0 2006.0 1924.6 1998.2 1922.0 1993.0C1919.4 1987.8 1915.8 1979.5 1914.0 1974.5C1912.2 1969.5 1908.5 1961.1 1905.9 1955.8C1903.2 1950.4 1899.2 1941.5 1897.0 1936.0C1894.8 1930.4 1891.6 1923.2 1890.0 1919.9C1888.3 1916.6 1885.0 1908.9 1882.6 1902.7C1880.2 1896.5 1876.2 1887.4 1873.8 1882.5C1871.3 1877.5 1867.6 1869.0 1865.5 1863.5C1860.8 1850.6 1851.0 1828.0 1845.2 1816.5C1842.7 1811.5 1838.5 1802.0 1835.9 1795.2C1833.2 1788.5 1828.6 1778.1 1825.6 1772.2C1822.7 1766.3 1818.7 1757.7 1816.7 1753.0C1805.9 1727.0 1795.1 1709.0 1790.4 1709.0C1784.4 1709.0 1777.7 1715.7 1774.0 1725.6C1772.9 1728.6 1769.5 1736.5 1766.4 1743.3C1763.3 1750.0 1756.5 1766.3 1751.3 1779.5C1746.1 1792.7 1740.2 1807.5 1738.3 1812.5C1736.3 1817.5 1730.1 1831.2 1724.4 1843.1C1718.7 1855.0 1712.0 1870.1 1709.4 1876.6C1706.8 1883.1 1701.6 1895.2 1697.7 1903.5C1693.9 1911.8 1687.4 1926.8 1683.3 1937.0C1679.2 1947.2 1672.6 1962.5 1668.5 1971.0C1661.8 1985.1 1657.7 1994.6 1645.8 2024.5C1634.5 2052.6 1637.4 2055.1 1682.5 2056.1C1716.8 2056.8 1729.0 2058.2 1754.0 2064.5C1761.4 2066.3 1773.6 2068.6 1781.0 2069.5C1797.8 2071.6 1803.7 2073.0 1815.1 2078.1C1820.1 2080.3 1828.3 2083.6 1833.3 2085.6C1870.8 2100.0 1898.6 2123.2 1920.9 2159.0C1933.6 2179.2 1934.9 2182.9 1939.1 2207.5C1944.2 2237.7 1938.1 2280.7 1925.7 2302.8C1922.7 2308.1 1918.8 2315.2 1917.0 2318.5C1903.2 2343.8 1869.1 2372.4 1841.5 2381.9C1833.8 2384.6 1823.7 2388.1 1819.0 2389.8C1813.7 2391.7 1806.7 2393.3 1800.5 2394.0C1789.6 2395.2 1704.7 2395.1 1690.0 2393.9ZM2429.5 2289.0C2426.2 2288.6 2417.0 2287.9 2409.0 2287.6C2368.8 2285.8 2363.4 2284.8 2324.5 2271.8C2294.3 2261.7 2274.9 2253.2 2258.6 2243.0C2250.9 2238.3 2223.3 2222.8 2212.0 2217.0C2192.3 2206.8 2190.0 2202.0 2190.0 2171.4C2190.0 2154.9 2189.6 2147.1 2188.3 2140.0C2185.6 2125.4 2185.7 2057.7 2188.3 2050.7C2193.5 2037.4 2202.4 2041.2 2209.5 2059.5C2225.8 2101.9 2233.0 2117.7 2241.6 2129.5C2244.8 2133.9 2250.4 2141.9 2254.1 2147.2C2284.0 2190.3 2333.0 2231.7 2369.8 2245.3C2410.3 2260.3 2414.2 2261.3 2440.0 2264.5C2520.5 2274.3 2581.9 2256.8 2628.5 2210.6C2644.1 2195.2 2643.2 2196.6 2656.4 2167.3C2682.9 2108.4 2638.0 2051.0 2535.1 2012.0C2528.1 2009.4 2519.2 2005.6 2515.2 2003.6C2504.9 1998.4 2496.3 1995.1 2462.5 1983.5C2446.0 1977.8 2422.8 1969.8 2410.9 1965.7C2399.1 1961.6 2386.0 1956.8 2381.9 1955.0C2377.8 1953.2 2368.4 1949.6 2361.0 1947.0C2226.1 1900.2 2160.4 1787.3 2210.3 1688.4C2226.0 1657.3 2264.4 1623.1 2299.4 1609.0C2304.4 1607.0 2313.4 1602.8 2319.5 1599.7C2327.4 1595.6 2333.9 1593.2 2342.5 1591.1C2349.1 1589.4 2359.3 1586.3 2365.2 1584.0C2386.4 1576.0 2380.8 1576.5 2454.5 1576.5C2528.6 1576.5 2521.5 1575.8 2557.5 1586.0C2565.2 1588.2 2576.0 1591.1 2581.5 1592.4C2616.6 1600.7 2675.6 1630.7 2699.7 1652.4C2713.0 1664.4 2715.1 1682.4 2713.0 1765.5C2712.0 1802.0 2710.9 1807.9 2703.9 1811.6C2695.2 1816.0 2688.4 1807.6 2682.1 1784.5C2678.3 1770.3 2665.6 1740.3 2659.2 1730.3C2656.4 1726.0 2651.3 1717.7 2647.7 1711.8C2623.3 1671.6 2576.3 1627.7 2542.3 1613.2C2534.0 1609.6 2496.2 1598.3 2488.5 1597.1C2452.2 1591.3 2403.5 1593.9 2379.4 1603.0C2373.5 1605.2 2363.7 1608.4 2357.7 1610.0C2333.6 1616.7 2312.9 1630.1 2289.0 1654.7C2271.4 1672.6 2264.1 1687.3 2259.5 1713.7C2251.2 1761.3 2287.3 1808.0 2363.9 1848.7C2394.8 1865.1 2420.1 1877.0 2435.0 1882.2C2450.6 1887.6 2463.5 1892.2 2491.0 1902.4C2500.7 1905.9 2512.7 1910.0 2517.8 1911.4C2522.8 1912.9 2532.2 1916.0 2538.7 1918.4C2545.2 1920.8 2554.9 1924.1 2560.2 1925.8C2565.5 1927.5 2574.9 1931.5 2581.2 1934.6C2587.4 1937.7 2596.0 1941.7 2600.3 1943.5C2639.8 1960.2 2690.0 1997.5 2708.1 2023.7C2744.6 2076.5 2742.7 2144.8 2703.4 2197.3C2671.7 2239.6 2599.7 2277.7 2542.4 2282.5C2533.0 2283.3 2518.6 2285.1 2510.4 2286.6C2494.5 2289.5 2443.8 2291.0 2429.5 2289.0ZM71.9 2281.6C71.6 2281.3 60.1 2280.6 46.4 2280.1C19.3 2279.2 15.0 2278.3 12.8 2273.5C11.0 2269.5 13.2 2266.9 23.0 2261.1C50.5 2245.1 53.7 2233.3 52.1 2152.0C51.6 2124.4 51.7 2028.5 52.3 1916.0C53.4 1709.6 52.7 1640.8 49.6 1629.5C45.0 1613.2 37.2 1603.7 22.3 1596.3C6.3 1588.4 5.5 1580.1 20.5 1577.0C27.7 1575.5 99.5 1574.8 109.5 1576.1C126.8 1578.4 134.6 1586.0 141.5 1607.0C143.0 1611.7 146.5 1620.5 149.3 1626.5C152.0 1632.5 156.0 1642.3 158.1 1648.3C160.2 1654.2 164.0 1663.4 166.4 1668.8C168.9 1674.1 172.2 1682.2 173.9 1686.6C175.5 1691.1 179.1 1699.2 181.8 1704.6C184.5 1710.1 188.2 1718.5 190.0 1723.5C191.8 1728.5 195.3 1736.5 197.7 1741.4C200.1 1746.3 203.5 1754.1 205.1 1758.9C206.8 1763.6 210.6 1772.7 213.7 1779.0C216.7 1785.3 220.7 1794.9 222.6 1800.3C224.5 1805.7 227.9 1814.0 230.1 1818.8C232.4 1823.6 236.3 1833.3 238.9 1840.5C241.6 1847.7 245.4 1856.9 247.5 1861.0C249.5 1865.1 252.7 1872.3 254.6 1877.0C256.4 1881.7 260.1 1890.2 262.8 1896.0C265.5 1901.8 269.0 1910.3 270.5 1915.0C272.0 1919.7 275.7 1928.9 278.6 1935.5C283.9 1947.7 292.0 1967.4 301.5 1992.0C304.4 1999.4 308.9 2010.0 311.5 2015.5C314.1 2021.0 318.2 2030.5 320.5 2036.5C322.9 2042.5 326.3 2050.7 328.0 2054.5C329.8 2058.3 332.9 2066.0 335.0 2071.5C337.0 2077.0 341.0 2086.7 343.7 2093.0C346.5 2099.3 351.8 2112.1 355.6 2121.4C370.2 2157.2 375.6 2153.7 396.6 2095.0C398.1 2090.9 401.6 2082.4 404.5 2076.0C407.4 2069.7 411.2 2059.8 413.0 2054.0C414.8 2048.2 418.4 2038.7 421.0 2032.9C423.7 2027.1 427.1 2018.2 428.5 2013.2C430.0 2008.1 433.3 1999.4 435.9 1993.7C438.6 1988.1 442.1 1979.2 443.8 1974.0C445.4 1968.8 448.9 1960.1 451.4 1954.7C453.9 1949.3 457.2 1941.0 458.6 1936.2C460.1 1931.4 463.9 1921.9 467.1 1915.0C470.4 1908.1 474.6 1896.9 476.5 1890.2C478.4 1883.5 481.5 1874.9 483.4 1871.1C485.4 1867.3 488.7 1859.1 490.9 1852.8C493.0 1846.5 496.6 1837.7 498.9 1833.2C501.1 1828.7 505.0 1819.3 507.4 1812.3C509.8 1805.3 514.2 1794.3 517.2 1788.0C520.2 1781.7 524.4 1771.3 526.5 1765.0C528.5 1758.7 532.2 1748.9 534.6 1743.3C537.0 1737.7 540.5 1729.0 542.4 1723.8C544.2 1718.7 547.6 1710.2 549.8 1705.0C552.0 1699.8 554.8 1691.7 556.0 1687.0C557.2 1682.4 560.5 1673.4 563.5 1667.0C566.4 1660.7 570.0 1651.2 571.5 1646.0C572.9 1640.8 576.1 1631.5 578.4 1625.5C580.8 1619.5 583.9 1609.9 585.5 1604.3C590.6 1585.4 596.8 1579.2 612.5 1577.1C623.7 1575.6 705.7 1575.3 710.6 1576.8C724.2 1580.8 723.5 1589.4 709.0 1597.1C689.7 1607.4 686.9 1613.4 685.8 1646.5C684.8 1678.9 684.7 2093.7 685.7 2175.0C686.7 2250.8 685.9 2247.5 705.6 2260.5C720.5 2270.3 719.2 2277.7 702.1 2281.0C692.6 2282.8 586.3 2281.1 572.6 2279.0C557.1 2276.6 554.2 2269.6 565.7 2262.4C576.3 2255.8 582.2 2248.8 585.3 2239.5C588.7 2229.2 591.1 1730.7 587.9 1712.3C584.2 1691.5 579.9 1689.9 570.9 1706.0C561.4 1723.1 559.1 1727.7 557.6 1732.5C552.9 1748.2 551.4 1752.4 547.1 1761.9C544.4 1767.7 541.0 1776.3 539.5 1781.0C537.9 1785.6 534.7 1793.8 532.4 1799.2C530.0 1804.5 526.9 1813.1 525.5 1818.2C522.3 1829.7 520.3 1835.1 515.2 1846.1C513.0 1850.8 509.6 1859.8 507.5 1866.1C505.5 1872.4 501.6 1882.2 499.0 1888.0C496.4 1893.8 493.2 1901.9 492.0 1906.0C490.7 1910.1 487.2 1919.1 484.0 1926.0C480.8 1932.9 477.3 1941.9 476.1 1946.0C474.8 1950.1 471.8 1958.0 469.3 1963.4C466.9 1968.8 463.3 1977.6 461.5 1982.9C459.6 1988.2 455.7 1998.2 452.7 2005.0C449.7 2011.9 445.7 2021.8 443.7 2027.0C441.8 2032.2 438.1 2040.7 435.6 2045.9C433.1 2051.1 429.4 2060.6 427.4 2066.9C425.4 2073.3 422.4 2081.2 420.8 2084.5C419.1 2087.7 415.8 2096.5 413.4 2103.9C410.8 2111.8 407.0 2120.9 404.2 2125.9C399.2 2134.6 389.6 2158.6 379.4 2187.5C373.0 2205.9 355.3 2251.1 350.6 2261.5C342.2 2279.8 331.7 2277.7 322.3 2255.9C320.0 2250.7 313.2 2234.1 307.0 2219.0C300.8 2203.9 293.5 2186.6 290.8 2180.5C288.0 2174.4 284.0 2165.3 281.8 2160.1C279.6 2154.9 276.3 2147.5 274.3 2143.7C272.4 2139.8 268.2 2130.6 265.0 2123.1C258.1 2106.8 245.3 2078.5 241.7 2071.4C240.3 2068.6 237.3 2060.9 235.0 2054.4C232.8 2047.9 228.9 2038.7 226.4 2034.0C223.8 2029.3 219.8 2020.5 217.5 2014.5C215.1 2008.5 210.9 1998.8 208.2 1993.0C205.5 1987.2 202.5 1980.0 201.5 1977.0C200.5 1974.0 197.2 1966.5 194.2 1960.5C184.0 1940.1 168.0 1902.3 155.5 1869.5C152.6 1861.8 147.8 1850.3 144.7 1844.0C141.7 1837.7 134.4 1820.8 128.5 1806.6C122.6 1792.3 116.0 1776.8 113.8 1772.1C111.6 1767.4 107.8 1758.3 105.3 1752.0C96.5 1729.3 85.3 1710.2 81.7 1711.6C77.7 1713.1 77.5 1716.4 77.4 1773.5C76.3 2267.6 76.0 2229.2 81.6 2240.7C84.9 2247.6 93.6 2255.3 104.8 2261.3C119.0 2269.0 119.2 2274.1 105.4 2278.9C98.6 2281.2 73.5 2283.3 71.9 2281.6ZM796.5 2281.3C795.4 2281.1 792.1 2280.4 789.2 2279.9C774.3 2277.0 774.1 2268.1 788.6 2258.2C797.3 2252.4 803.9 2245.4 806.9 2239.0C810.5 2231.5 811.1 1631.2 807.6 1621.0C805.2 1614.2 799.0 1607.8 786.3 1599.2C772.1 1589.4 770.7 1583.4 781.5 1578.0C790.6 1573.4 927.3 1574.2 937.0 1578.8C944.9 1582.6 944.4 1589.1 935.7 1594.5C906.1 1612.8 907.7 1607.4 907.7 1693.0C907.8 1972.2 909.6 2236.6 911.4 2241.2C914.1 2248.3 920.1 2254.4 930.5 2260.5C939.9 2266.0 941.0 2267.2 941.0 2271.5C941.0 2279.9 932.4 2281.0 879.5 2279.6C855.1 2278.9 848.7 2279.0 839.0 2280.4C828.6 2281.9 801.7 2282.5 796.5 2281.3ZM1313.0 2003.0C1323.4 2001.8 1330.1 1999.6 1359.5 1987.4C1382.1 1978.1 1414.8 1954.3 1430.2 1936.1C1484.4 1871.8 1497.4 1783.0 1463.3 1710.0C1442.4 1665.2 1388.7 1620.8 1342.9 1610.4C1337.1 1609.1 1327.4 1606.5 1321.4 1604.6C1302.2 1598.6 1300.2 1598.5 1250.0 1598.8C1149.1 1599.5 1140.4 1600.6 1133.5 1614.5C1130.5 1620.5 1130.5 1620.5 1130.0 1785.2C1129.4 1969.7 1129.5 1977.6 1132.6 1983.5C1136.7 1991.3 1137.1 1991.4 1175.0 1992.1C1206.8 1992.7 1245.0 1997.7 1269.0 2004.5C1271.5 2005.2 1303.9 2004.1 1313.0 2003.0ZM1781.9 1376.9C1764.1 1375.2 1726.6 1369.1 1718.0 1366.5C1713.3 1365.1 1702.8 1362.4 1694.5 1360.4C1669.8 1354.6 1668.3 1354.2 1647.0 1345.3C1607.2 1328.8 1595.3 1322.7 1553.5 1297.2C1525.2 1279.9 1490.0 1254.8 1469.0 1237.0C1466.0 1234.4 1457.0 1227.2 1449.0 1221.0C1441.0 1214.8 1424.6 1200.9 1412.5 1190.1C1400.4 1179.3 1387.1 1167.6 1383.0 1164.0C1378.9 1160.4 1368.7 1151.1 1360.3 1143.3C1352.0 1135.5 1340.3 1125.2 1334.3 1120.5C1328.4 1115.7 1316.5 1105.4 1308.0 1097.5C1299.5 1089.7 1286.9 1078.6 1280.0 1072.9C1273.1 1067.3 1260.3 1055.6 1251.5 1047.0C1241.2 1036.9 1230.5 1027.6 1221.5 1021.0C1211.4 1013.6 1201.6 1004.9 1186.5 990.0C1159.8 963.9 1154.8 959.3 1141.4 949.0C1126.9 937.9 1119.2 931.1 1096.5 909.9C1086.0 900.2 1071.4 887.1 1064.0 881.0C1056.6 874.9 1045.4 865.5 1039.2 860.2C1033.0 854.9 1024.2 847.7 1019.7 844.2C1015.2 840.7 1001.4 829.8 989.0 819.9C951.1 789.7 944.1 785.3 921.0 777.0C914.7 774.7 906.4 771.7 902.7 770.4C896.5 768.1 872.7 763.7 827.6 756.4C798.0 751.7 783.8 752.1 752.0 758.5C742.9 760.3 732.4 762.1 728.5 762.5C716.8 763.6 708.1 766.0 694.0 771.7C686.6 774.8 676.7 778.6 672.0 780.1C652.8 786.7 606.0 819.0 585.8 839.7C582.2 843.4 574.1 853.7 567.8 862.5C532.6 911.8 530.8 915.2 517.0 957.5C510.8 976.5 510.8 976.5 509.9 997.5C508.9 1021.3 509.7 1067.6 511.2 1076.4C512.3 1083.4 524.8 1118.7 529.4 1128.0C558.3 1186.8 588.2 1220.5 642.5 1255.5C657.1 1264.9 660.2 1266.6 669.6 1270.0C674.5 1271.8 683.8 1275.7 690.3 1278.7C696.9 1281.7 706.1 1285.0 710.8 1286.2C715.6 1287.3 726.0 1290.0 734.0 1292.1C768.5 1301.6 810.0 1302.7 839.5 1294.9C845.5 1293.3 857.9 1290.2 866.9 1287.9C930.1 1272.2 983.4 1231.4 1062.0 1138.7C1067.2 1132.5 1079.9 1118.9 1090.2 1108.3C1102.3 1095.9 1112.5 1084.3 1119.1 1075.5C1145.8 1039.8 1155.9 1035.6 1174.3 1052.9C1191.5 1069.1 1191.0 1075.4 1171.1 1096.9C1164.5 1104.1 1155.1 1115.2 1150.3 1121.7C1145.5 1128.2 1134.3 1140.9 1125.4 1150.0C1103.5 1172.5 1062.7 1218.5 1042.2 1243.6C1035.3 1252.2 1021.8 1265.2 1006.0 1278.7C976.2 1304.2 933.1 1329.7 903.5 1339.5C896.4 1341.8 886.6 1345.4 881.8 1347.4C841.9 1364.0 745.0 1364.0 699.2 1347.4C693.8 1345.5 683.4 1342.1 676.0 1339.9C655.1 1333.6 625.2 1317.4 591.5 1293.8C544.3 1260.9 488.7 1191.0 475.3 1148.0C473.9 1143.3 470.7 1134.5 468.4 1128.5C462.9 1114.3 459.5 1101.1 458.0 1088.5C457.4 1083.0 455.8 1074.7 454.5 1070.0C448.7 1049.4 448.0 995.9 453.4 977.0C454.9 971.8 457.0 962.3 458.1 956.0C460.0 945.0 462.3 937.7 474.3 904.2C482.0 882.7 497.2 856.5 514.2 835.2C517.7 830.8 523.8 822.7 527.9 817.1C561.1 771.6 628.5 729.0 700.0 708.3C741.1 696.4 738.7 696.9 777.0 693.9C790.5 692.8 871.6 692.6 968.5 693.4C991.2 693.6 996.5 689.5 1034.3 643.2C1040.0 636.2 1048.7 626.1 1053.6 620.6C1079.0 592.5 1086.1 584.4 1095.5 573.0C1110.6 554.5 1139.4 522.7 1174.8 485.3C1183.8 475.8 1195.3 463.0 1200.3 456.8C1205.3 450.6 1215.6 439.0 1223.3 431.0C1231.0 423.0 1243.4 408.9 1250.8 399.5C1259.6 388.4 1272.2 374.5 1287.0 359.5C1310.7 335.5 1322.5 322.1 1335.2 305.4C1344.9 292.6 1358.6 276.3 1370.9 263.0C1376.3 257.2 1384.4 248.2 1389.0 243.0C1393.5 237.8 1405.4 224.7 1415.4 214.0C1440.8 186.7 1442.3 185.0 1454.5 171.0C1460.5 164.1 1473.8 149.5 1484.0 138.5C1494.2 127.5 1507.9 112.4 1514.5 105.0C1521.1 97.6 1533.5 84.1 1542.1 75.0C1550.7 65.9 1561.3 54.4 1565.6 49.4C1570.0 44.4 1577.6 35.6 1582.6 29.8C1596.9 13.5 1604.8 9.6 1611.8 15.5C1619.0 21.5 1618.4 8.1 1619.3 188.5C1620.6 478.5 1620.6 476.5 1623.3 480.1C1629.4 488.1 1637.9 482.0 1666.7 449.0C1671.7 443.2 1688.5 426.2 1704.0 411.1C1719.4 396.1 1736.2 379.2 1741.2 373.6C1746.2 368.1 1755.8 357.4 1762.4 350.0C1769.1 342.6 1779.2 331.6 1785.0 325.5C1790.8 319.5 1798.0 311.6 1801.0 308.0C1811.8 295.2 1822.8 283.2 1842.5 263.0C1860.2 244.8 1903.3 198.6 1933.0 166.0C1938.7 159.7 1953.8 143.7 1966.6 130.5C1979.3 117.3 1997.1 98.4 2006.2 88.5C2038.7 53.0 2080.0 12.2 2084.8 10.9C2090.1 9.4 2093.5 10.4 2096.4 14.3C2098.5 17.1 2098.5 17.1 2099.2 564.3C2100.1 1314.2 2099.4 1252.6 2107.6 1272.1C2115.2 1290.2 2120.3 1296.3 2135.5 1305.8C2154.6 1317.6 2159.7 1318.8 2198.0 1319.8C2237.6 1320.9 2243.7 1324.6 2245.6 1348.5C2247.6 1371.7 2233.9 1379.3 2194.3 1377.1C2175.4 1376.0 1928.4 1376.2 1836.0 1377.3C1811.5 1377.6 1787.2 1377.4 1781.9 1376.9ZM1912.5 1301.9C1923.9 1299.0 1924.7 1296.0 1925.4 1251.5C1927.9 1107.3 1929.2 339.1 1927.1 305.5C1924.7 267.2 1920.3 267.5 1882.4 308.2C1872.0 319.4 1854.1 338.2 1842.5 350.0C1831.0 361.8 1817.2 376.4 1811.9 382.5C1806.6 388.6 1788.9 407.5 1772.4 424.5C1742.1 456.0 1718.9 481.0 1706.4 495.5C1702.7 499.9 1696.6 506.7 1693.0 510.5C1689.4 514.4 1682.6 522.1 1677.8 527.6C1673.0 533.2 1662.3 544.8 1654.0 553.5C1645.7 562.1 1634.6 574.4 1629.3 580.8C1623.9 587.2 1613.5 598.8 1606.0 606.5C1598.5 614.2 1587.9 625.5 1582.5 631.5C1577.1 637.5 1566.5 648.8 1559.0 656.5C1542.7 673.3 1530.9 686.2 1513.0 707.0C1500.2 721.8 1477.8 745.5 1437.0 787.5C1402.8 822.6 1390.5 835.4 1381.5 845.4C1376.5 850.9 1365.9 862.5 1357.8 871.2C1333.7 897.1 1333.6 896.4 1372.9 931.5C1380.2 938.1 1389.7 946.6 1393.9 950.3C1398.1 954.1 1407.3 961.6 1414.5 966.9C1421.7 972.3 1432.9 981.5 1439.5 987.4C1446.1 993.3 1457.1 1002.7 1464.0 1008.3C1470.9 1013.8 1485.0 1025.9 1495.5 1035.0C1506.0 1044.1 1521.5 1057.2 1530.0 1064.0C1538.5 1070.8 1548.2 1078.8 1551.5 1081.8C1554.7 1084.8 1564.9 1093.2 1574.0 1100.5C1583.1 1107.7 1594.5 1117.4 1599.5 1122.0C1604.5 1126.5 1613.9 1134.6 1620.5 1139.8C1627.1 1145.1 1640.4 1156.2 1650.0 1164.5C1670.9 1182.5 1679.2 1189.2 1692.5 1199.0C1698.0 1203.0 1706.1 1209.3 1710.5 1213.0C1739.1 1236.8 1793.5 1273.1 1813.1 1281.5C1845.9 1295.6 1896.4 1305.9 1912.5 1301.9ZM1299.3 849.2C1304.8 844.9 1321.7 826.7 1337.0 808.5C1347.6 796.0 1364.5 777.0 1391.6 747.5C1455.8 677.3 1450.7 686.5 1450.8 641.0C1450.8 627.5 1451.4 605.2 1452.0 591.5C1452.9 572.5 1452.9 550.1 1452.1 498.0C1451.5 460.3 1451.0 398.4 1451.0 360.5C1451.0 313.8 1450.6 290.2 1449.9 287.5C1445.9 272.8 1436.4 277.4 1412.7 305.5C1407.1 312.1 1393.7 326.5 1382.9 337.5C1372.1 348.5 1360.1 361.2 1356.3 365.6C1352.6 370.1 1341.6 382.0 1332.0 392.1C1322.4 402.2 1310.2 416.1 1305.0 423.0C1298.9 431.0 1286.3 444.9 1270.1 461.5C1256.1 475.8 1239.7 493.6 1233.7 501.0C1222.5 514.7 1205.0 534.9 1184.0 558.5C1177.6 565.6 1169.3 575.3 1165.5 580.0C1143.6 607.1 1118.1 636.6 1093.1 664.0C1060.0 700.1 1057.0 705.1 1063.6 713.0C1066.6 716.5 1069.3 718.0 1085.4 724.9C1114.3 737.3 1170.1 769.2 1199.6 790.3C1204.9 794.0 1212.4 799.2 1216.3 801.9C1220.3 804.6 1226.2 809.1 1229.5 812.0C1232.8 814.8 1240.0 820.2 1245.5 824.0C1251.0 827.8 1260.5 835.4 1266.7 840.9C1283.9 856.3 1288.6 857.4 1299.3 849.2Z"/></svg><nav><a href="saeed/"><span class="n">SAEED TAHERI</span><span class="a">سعيد طاهري</span><span class="r">CEO</span></a><a href="rami/"><span class="n">RAMI ZIENDDINE</span><span class="a">رامي زين الدين</span><span class="r">Head of Sales &amp; Business Development</span></a></nav></body></html>

diff --git a/rami/index.html b/rami/index.html
@@ -9,10 +9,10 @@
 <meta property="og:type" content="profile">
 <meta property="og:title" content="Rami Zienddine · Head of Sales & Business Development, MIRAS Real Estate">
 <meta property="og:description" content="Call, WhatsApp, email or save the contact.">
-<meta property="og:image" content="https://sawafilms20-debug.github.io/miras/rami/og-image.png">
+<meta property="og:image" content="https://mirasrealestate.github.io/rami/og-image.png">
 <meta property="og:image:width" content="1200">
 <meta property="og:image:height" content="630">
-<meta property="og:url" content="https://sawafilms20-debug.github.io/miras/rami/">
+<meta property="og:url" content="https://mirasrealestate.github.io/rami/">
 <meta name="twitter:card" content="summary_large_image">
 <link rel="icon" type="image/svg+xml" href="../assets/favicon.svg">
 <link rel="apple-touch-icon" href="../assets/apple-touch-icon.png">
@@ -59,7 +59,7 @@ button{font:inherit;color:inherit;background:none;border:0;cursor:pointer}
 .identity{display:flex;flex-direction:column;align-items:center;text-align:center}
 .name{font-family:'Cinzel',serif;font-weight:500;font-size:clamp(21px,6.4vw,26px);letter-spacing:.07em;line-height:1.15;color:var(--navy)}
 .name-ar{margin-top:8px;font-family:var(--ar);font-weight:600;font-size:clamp(18px,5.4vw,21px);line-height:1.3;color:var(--navy)}
-.role{margin-top:16px;font-family:var(--sans);font-size:11px;font-weight:500;line-height:1.75;color:var(--gold-text);text-transform:uppercase;text-wrap:balance;max-width:300px}
+.role{margin-top:16px;font-family:var(--sans);font-size:11px;font-weight:500;line-height:1.75;color:var(--gold-text);text-wrap:balance;max-width:340px}
 .role-ar{margin-top:5px;font-family:var(--ar);font-size:13px;font-weight:500;line-height:1.5;color:var(--gold-text)}
 
 .rule{position:relative;height:1px;margin:24px 4px 22px;background:linear-gradient(90deg,transparent,rgba(168,132,74,.5) 16%,rgba(168,132,74,.5) 84%,transparent)}
@@ -151,7 +151,7 @@ html[lang=ar] .foot .place{font-size:12px;letter-spacing:0}
     <div class="identity">
       <p class="name" lang="en" dir="ltr">RAMI ZIENDDINE</p>
       <p class="name-ar" lang="ar" dir="rtl">رامي زين الدين</p>
-      <p class="role" lang="en" dir="ltr" style="letter-spacing:.26em;margin-right:-.26em">Head of Sales &amp; Business Development</p>
+      <p class="role" lang="en" dir="ltr" style="font-size:13.5px;letter-spacing:.02em">Head of Sales &amp; Business Development</p>
       <p class="role-ar" lang="ar" dir="rtl">رئيس المبيعات وتطوير الأعمال</p>
     </div>
 
